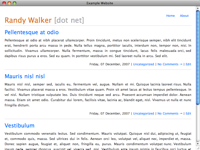
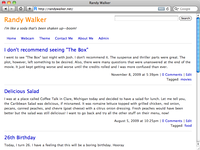
theme:simpler Made nav area full-width to accommodate sites with more pages or longer page names. Also updated screenshot.
git-svn-id: http://svn.habariproject.org/habari-extras/themes/simpler/trunk@2493 f4a90942-1786-4aa1-b092-57c31935ddc3

diff --git a/style.css b/style.css
@@ -32,20 +32,15 @@ a img {
 #siteinfo {
 	float: left;
 	width: 40%;
-}
-
-#sitenav {
-	float: right;
-	width: 60%;
+	padding: 0;
+	margin: 0;
 }
 
 h1 {
 	font-weight: normal;
-	margin-bottom: 5px;
 	color: #FF8C00;
-	margin: 0;
 	padding: 0;
-	height: 30px;
+	margin: 0;
 }
 
 #tagline {
@@ -53,12 +48,17 @@ h1 {
 }
 
 #search {
+	float: right;
+	width: 60%;
 	text-align: right;
-	height: 30px;
 }
 
 #search input {
-	height: 1.6em;
+	height: 1.5em;
+}
+
+#searchsubmit {
+	width: 50px;
 }
 
 #search p {
@@ -72,9 +72,11 @@ h1 {
 }
 
 #menu {
-	text-align: right;
+	text-align: left;
 	list-style-type: none;
-	float: right;
+	float: left;
+	padding: 0;
+	clear: both;
 }
 
 #menu li {
@@ -120,20 +122,14 @@ input {
 	width: 250px;
 }
 
-#searchsubmit {
-	width: 50px;
-}
-
 textarea {
 	width: 99%;
 }
 
 pre, code {
-	font-family: Consolas, "Andale Mono", "Courier New", Courier, Monospace;
+	font-family: Menlo, Monaco, Consolas, "Andale Mono", "Courier New", Courier, Monospace;
 	overflow: auto;
 }
-
-
 
 .draft {
 	background-color: #efefef;

diff --git a/header.php b/header.php
@@ -15,30 +15,29 @@
 				<h1><?php Options::out( 'title' ); ?></h1>
 				<p id="tagline"><?php Options::out( 'tagline' ); ?></p>
 			</div>
-			<div id="sitenav">
-				<form method="get" id="search" action="<?php URL::out('display_search'); ?>">
-					<p><input type="text" id="searchfield" name="criteria" value="<?php if ( isset( $criteria ) ) { echo htmlentities($criteria, ENT_COMPAT, 'UTF-8'); } ?>"> <input type="submit" id="searchsubmit" value="<?php _e('Search'); ?>"></p>
-				</form>
-				<ul id="menu">
-					<li>
-						<a href="<?php Site::out_url( 'habari' ); ?>">Home</a>
-					</li>
-						<?php
-							foreach ( array_filter($pages->getArrayCopy(), create_function('$a', 'return !in_array($a->slug, array("tag", "archives"));')) as $tab ) {
-								?>
-									<li>
-										<a href="<?php echo $tab->permalink; ?>" title="<?php echo $tab->title; ?>"><?php echo $tab->title; ?></a>
-									</li>
-								<?php
-							}
-						
-							if ( User::identify()->loggedin ) { 
-								?>
-									<li class="admintab"><a href="<?php Site::out_url( 'admin' ); ?>" title="Admin area">Admin</a></li>
-								<?php
-							}
-						?>
-					
-				</ul>
-			</div>
+			<form method="get" id="search" action="<?php URL::out('display_search'); ?>">
+				<p><input type="text" id="searchfield" name="criteria" value="<?php if ( isset( $criteria ) ) { echo htmlentities($criteria, ENT_COMPAT, 'UTF-8'); } ?>"> <input type="submit" id="searchsubmit" value="<?php _e('Search'); ?>"></p>
+			</form>
+			<ul id="menu">
+				<li>
+					<a href="<?php Site::out_url( 'habari' ); ?>">Home</a>
+				</li>
+					<?php
+						foreach ( array_filter($pages->getArrayCopy(), create_function('$a', 'return !in_array($a->slug, array("tag", "archives"));')) as $tab ) {
+							?>
+								<li>
+									<a href="<?php echo $tab->permalink; ?>" title="<?php echo $tab->title; ?>"><?php echo $tab->title; ?></a>
+								</li>
+							<?php
+						}
+				
+						if ( User::identify()->loggedin ) { 
+							?>
+								<li class="admintab"><a href="<?php Site::out_url( 'admin' ); ?>" title="Admin area">Admin</a></li>
+							<?php
+						}
+					?>
+			
+			</ul>
 		</div>
+		
